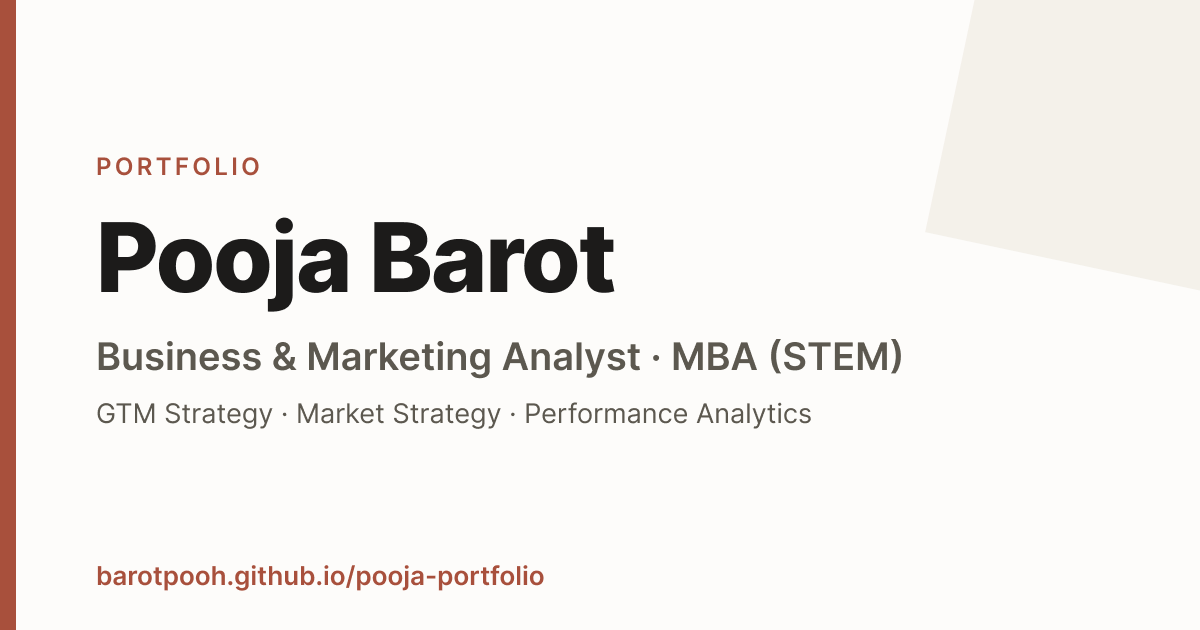
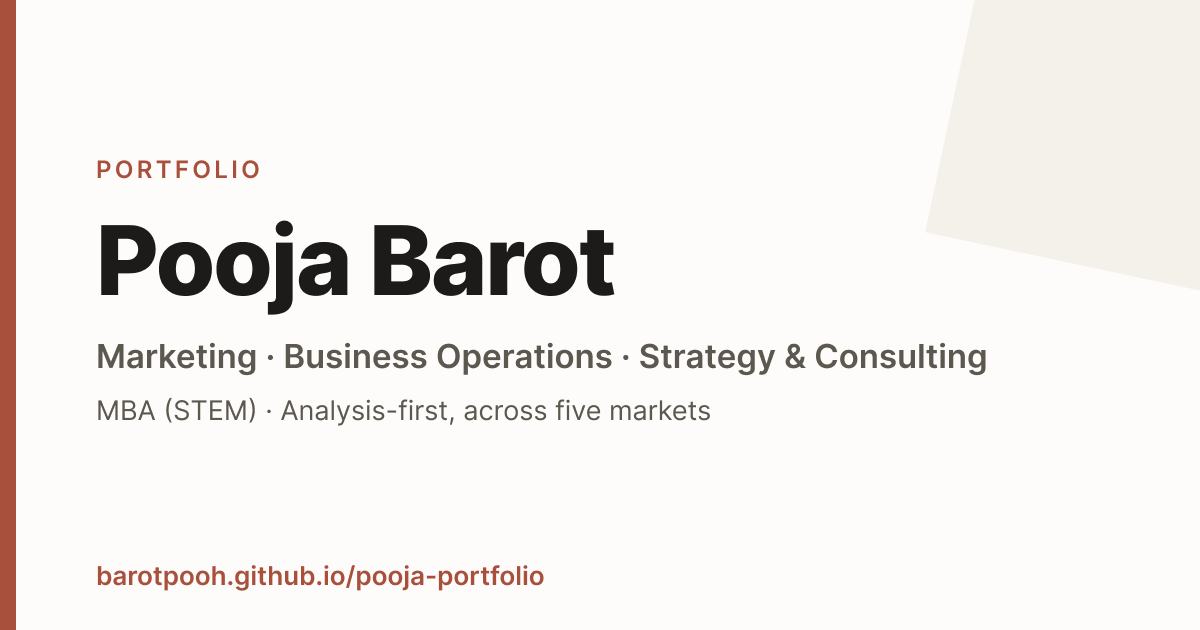
Reposition as Marketing · Operations · Strategy; add home capabilities
- Update home hero, title, meta, and OG image to
  'Marketing · Business Operations · Strategy & Consulting'
- Add 'What I Do' capabilities highlight on home linking to Skills

diff --git a/index.html b/index.html
@@ -3,17 +3,17 @@
 <head>
   <meta charset="UTF-8" />
   <meta name="viewport" content="width=device-width, initial-scale=1.0" />
-  <title>Pooja Barot — Business &amp; Marketing Analyst</title>
-  <meta name="description" content="Portfolio of Pooja Barot, MBA (STEM) — Business &amp; Marketing Analyst specializing in GTM strategy, market strategy, and performance analytics." />
+  <title>Pooja Barot — Marketing, Operations &amp; Strategy</title>
+  <meta name="description" content="Portfolio of Pooja Barot, MBA (STEM) — four years across Marketing, Business Operations, and Strategy &amp; Consulting, with an analysis-first approach." />
   <meta property="og:type" content="website" />
-  <meta property="og:title" content="Pooja Barot — Business &amp; Marketing Analyst" />
-  <meta property="og:description" content="Portfolio of Pooja Barot, MBA (STEM) — Business &amp; Marketing Analyst specializing in GTM strategy, market strategy, and performance analytics." />
+  <meta property="og:title" content="Pooja Barot — Marketing, Operations &amp; Strategy" />
+  <meta property="og:description" content="Portfolio of Pooja Barot, MBA (STEM) — four years across Marketing, Business Operations, and Strategy &amp; Consulting, with an analysis-first approach." />
   <meta property="og:url" content="https://barotpooh.github.io/pooja-portfolio/" />
   <meta property="og:image" content="https://barotpooh.github.io/pooja-portfolio/assets/og-image.png" />
   <meta name="twitter:card" content="summary_large_image" />
   <meta name="twitter:image" content="https://barotpooh.github.io/pooja-portfolio/assets/og-image.png" />
-  <meta name="twitter:title" content="Pooja Barot — Business &amp; Marketing Analyst" />
-  <meta name="twitter:description" content="Portfolio of Pooja Barot, MBA (STEM) — Business &amp; Marketing Analyst specializing in GTM strategy, market strategy, and performance analytics." />
+  <meta name="twitter:title" content="Pooja Barot — Marketing, Operations &amp; Strategy" />
+  <meta name="twitter:description" content="Portfolio of Pooja Barot, MBA (STEM) — four years across Marketing, Business Operations, and Strategy &amp; Consulting, with an analysis-first approach." />
   <link rel="preconnect" href="https://fonts.googleapis.com" />
   <link rel="preconnect" href="https://fonts.gstatic.com" crossorigin />
   <link href="https://fonts.googleapis.com/css2?family=Inter:wght@400;500;600;700&family=Sora:wght@600;700;800&display=swap" rel="stylesheet" />
@@ -45,7 +45,7 @@
       <div class="container">
         <p class="hero-eyebrow">Open to work</p>
         <h1>Pooja Barot, <span class="hero-suffix">MBA (STEM)</span></h1>
-        <p class="hero-title">Business &amp; Marketing Analyst — GTM Strategy · Market Strategy · Performance Analytics</p>
+        <p class="hero-title">Marketing · Business Operations · Strategy &amp; Consulting</p>
         <p class="hero-location">Arlington, VA · Open to relocation across the US</p>
         <div class="hero-actions">
           <a class="btn btn-primary" href="contact.html">Get in touch</a>
@@ -89,6 +89,47 @@
     </section>
 
     <section class="section section-alt">
+      <div class="container">
+        <p class="kicker reveal">
+          <span class="kicker-label">What I Do</span>
+        </p>
+        <h2 class="reveal">Breadth across five areas</h2>
+        <p class="lede reveal">
+          Four years spanning marketing, operations, and strategy &mdash; backed by a hands-on tool
+          stack and an analysis-first approach.
+        </p>
+        <ul class="capability-grid">
+          <li class="capability reveal">
+            <p class="cap-num">01</p>
+            <h3>Marketing</h3>
+            <p>Growth, brand, content, and creator campaigns.</p>
+          </li>
+          <li class="capability reveal">
+            <p class="cap-num">02</p>
+            <h3>Business Operations</h3>
+            <p>Process, workflow, and budget-to-margin tracking.</p>
+          </li>
+          <li class="capability reveal">
+            <p class="cap-num">03</p>
+            <h3>Strategy &amp; Consulting</h3>
+            <p>Market entry, GTM, and decision-ready recommendations.</p>
+          </li>
+          <li class="capability reveal">
+            <p class="cap-num">04</p>
+            <h3>Analytics &amp; Data</h3>
+            <p>Dashboards, segmentation, and performance reporting.</p>
+          </li>
+          <li class="capability reveal">
+            <p class="cap-num">05</p>
+            <h3>AI &amp; Automation</h3>
+            <p>n8n workflows and AI tools built into daily work.</p>
+          </li>
+        </ul>
+        <a class="page-link-arrow reveal" href="skills.html">See the full skills &amp; tools breakdown &rarr;</a>
+      </div>
+    </section>
+
+    <section class="section">
       <div class="container">
         <p class="kicker reveal">
           <span class="kicker-label">Explore the site</span>

diff --git a/about.html b/about.html
@@ -4,16 +4,16 @@
   <meta charset="UTF-8" />
   <meta name="viewport" content="width=device-width, initial-scale=1.0" />
   <title>About — Pooja Barot</title>
-  <meta name="description" content="About Pooja Barot, MBA (STEM) — Business & Marketing Analyst specializing in GTM strategy and performance analytics." />
+  <meta name="description" content="About Pooja Barot, MBA (STEM) — four years across Marketing, Business Operations, and Strategy & Consulting." />
   <meta property="og:type" content="website" />
   <meta property="og:title" content="About — Pooja Barot" />
-  <meta property="og:description" content="About Pooja Barot, MBA (STEM) — Business & Marketing Analyst specializing in GTM strategy and performance analytics." />
+  <meta property="og:description" content="About Pooja Barot, MBA (STEM) — four years across Marketing, Business Operations, and Strategy & Consulting." />
   <meta property="og:url" content="https://barotpooh.github.io/pooja-portfolio/about.html" />
   <meta property="og:image" content="https://barotpooh.github.io/pooja-portfolio/assets/og-image.png" />
   <meta name="twitter:card" content="summary_large_image" />
   <meta name="twitter:image" content="https://barotpooh.github.io/pooja-portfolio/assets/og-image.png" />
   <meta name="twitter:title" content="About — Pooja Barot" />
-  <meta name="twitter:description" content="About Pooja Barot, MBA (STEM) — Business & Marketing Analyst specializing in GTM strategy and performance analytics." />
+  <meta name="twitter:description" content="About Pooja Barot, MBA (STEM) — four years across Marketing, Business Operations, and Strategy & Consulting." />
   <link rel="preconnect" href="https://fonts.googleapis.com" />
   <link rel="preconnect" href="https://fonts.gstatic.com" crossorigin />
   <link href="https://fonts.googleapis.com/css2?family=Inter:wght@400;500;600;700&family=Sora:wght@600;700;800&display=swap" rel="stylesheet" />

diff --git a/styles.css b/styles.css
@@ -893,6 +893,44 @@ button:focus-visible {
   font-size: 1rem;
 }
 
+/* Home capabilities highlight */
+
+.capability-grid {
+  display: grid;
+  grid-template-columns: repeat(auto-fit, minmax(180px, 1fr));
+  gap: var(--space-3);
+  margin: var(--space-3) 0 var(--space-3);
+  list-style: none;
+  padding: 0;
+}
+
+.capability {
+  border-top: 2px solid var(--color-accent);
+  padding-top: var(--space-2);
+}
+
+.capability:nth-child(5n+2) { border-top-color: var(--color-slate-700, #39414f); }
+.capability:nth-child(5n+3) { border-top-color: var(--color-accent-dark); }
+
+.capability .cap-num {
+  font-family: var(--font-heading);
+  font-weight: 800;
+  font-size: 0.85rem;
+  color: var(--color-accent-dark);
+  margin: 0 0 0.25rem;
+}
+
+.capability h3 {
+  font-size: 1.05rem;
+  margin: 0 0 0.3rem;
+}
+
+.capability p {
+  color: var(--color-ink-muted);
+  font-size: 0.9rem;
+  margin: 0;
+}
+
 /* Home page explore links */
 
 .page-links-grid {
